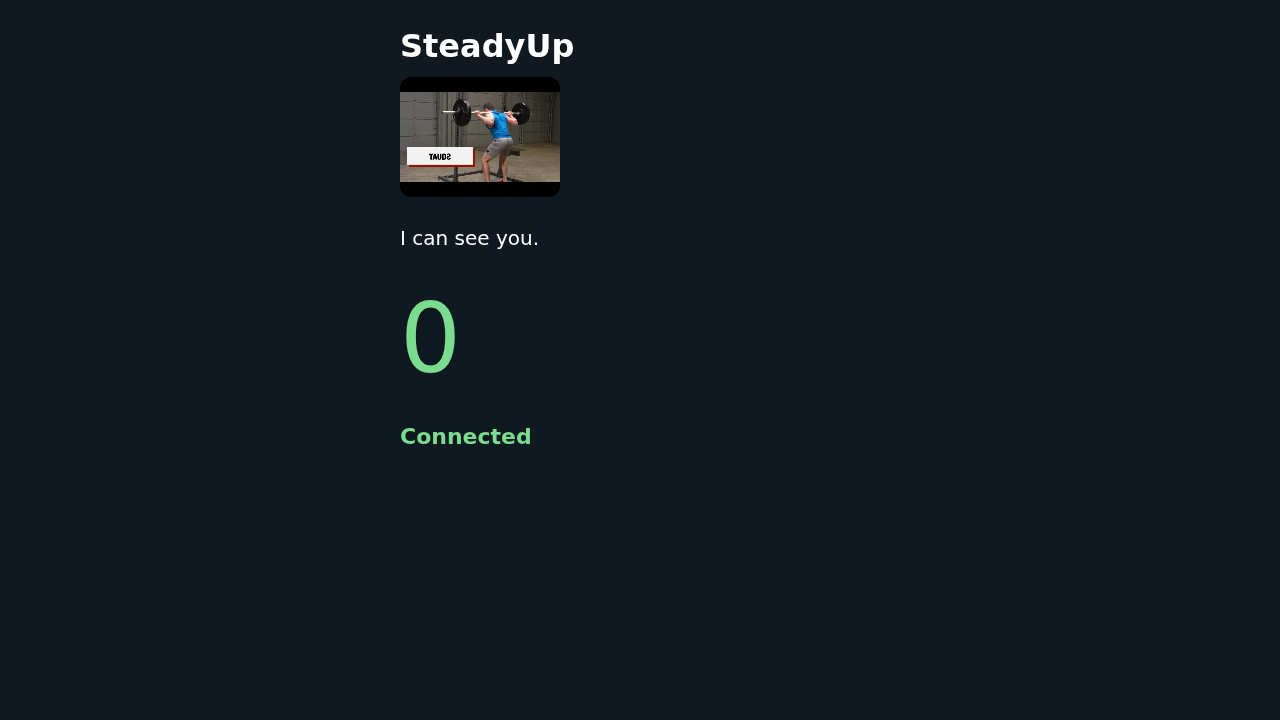
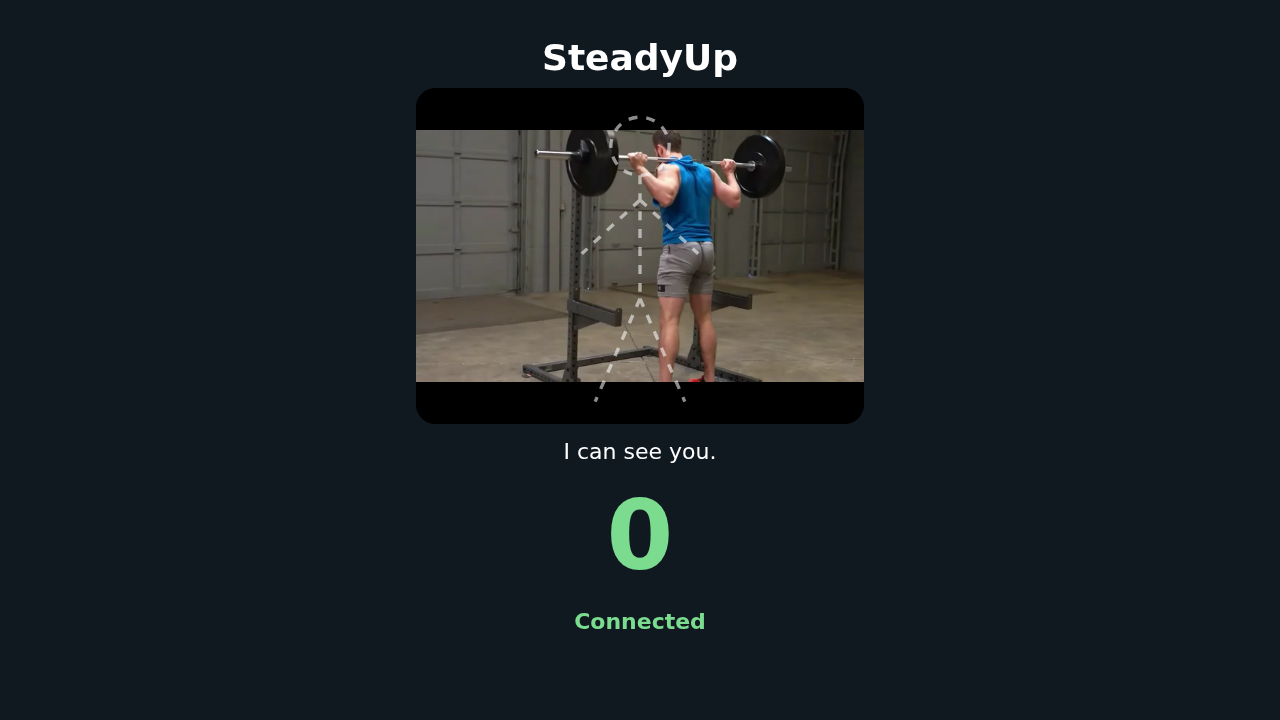
worldclass: docs, audit status, demo, readme

Changed region(s): [[0.3125, 0.0306, 0.6875, 0.6417], [0.4688, 0.6722, 0.5312, 0.7944], [0.4375, 0.8556, 0.5625, 0.8861]]

diff --git a/tests/e2e/s9-worldclass.spec.ts b/tests/e2e/s9-worldclass.spec.ts
@@ -71,3 +71,41 @@ test("S9 chair stand: 'No' skips the test with a kind sentence", async () => {
     pressOk(); await expect.poll(() => logcat("SteadyUpFlow").split("shown=home").length, { timeout: 10_000 }).toBeGreaterThan(2);
   } finally { phone.close(); }
 });
+
+test("S9 the real phone page answers a calibration request (fake camera, scripted TV)", async ({ browser }) => {
+  test.setTimeout(2 * 60_000);
+  const { default: WebSocket } = await import("ws");
+  const tv = new WebSocket(endpoints.wsUrl);
+  const got: any[] = [];
+  const code: string = await new Promise((resolve, reject) => {
+    tv.on("open", () => tv.send(JSON.stringify({ type: "hello", role: "tv" })));
+    tv.on("message", (m) => { const j = JSON.parse(m.toString()); got.push(j); if (j.type === "code") resolve(j.code); });
+    tv.on("error", reject);
+  });
+  const page = await newPhone(browser);
+  await page.goto(`${endpoints.webUrl}/?code=${code}&delegate=cpu&calms=9000`);
+  await expect(page.locator("#status")).toHaveText("Connected", { timeout: 20_000 });
+  await expect(page.locator("#seen")).toHaveText("I can see you.", { timeout: 60_000 });
+  tv.send(JSON.stringify({ type: "calibrate" }));
+  await expect.poll(() => got.filter((m) => m.type === "cal").length, { timeout: 30_000 }).toBeGreaterThan(0);
+  await expect.poll(() => got.some((m) => m.type === "cal" && (m.state === "done" || m.state === "unclear")), { timeout: 30_000 }).toBe(true);
+  const final = got.filter((m) => m.type === "cal").at(-1);
+  expect(["done", "unclear", "progress"]).toContain(final.state); // a squat video may or may not be two clear stands: either answer is fine, silence is not
+  await expect(page.locator("#note")).toContainText("Stand up slowly");
+  tv.close();
+});
+
+test("S9 record the key screens: 2x2 home grid, a live set part-way through, the finish", async () => {
+  test.setTimeout(3 * 60_000);
+  const code = await tvCode(["--es", "plan", "sit_to_stand:8", "--ei", "restSec", "1"]);
+  const phone = new ScriptedPhone(endpoints.wsUrl);
+  phone.kneesCaveFirstSet = true;
+  try {
+    await phone.join(code);
+    await waitScreen("safety"); pressOk();
+    await waitScreen("home"); tvScreenshot("s9-home-grid"); pressOk();
+    await waitScreen("intro:0"); pressOk();
+    await waitScreen("live:0"); await sleep(8500); tvScreenshot("s9-live-midset");
+    await waitScreen("finish", 90_000); await sleep(800); tvScreenshot("s9-finish");
+  } finally { phone.close(); }
+});

diff --git a/web/src/main.ts b/web/src/main.ts
@@ -31,8 +31,8 @@ async function join(code: string) {
       if (e.kind === "connected") { $("join").classList.add("hidden"); say("Connected", "ok"); void beginCamera(); }
       else if (e.kind === "problem") say(e.message, "bad");
       else if (e.kind === "message" && e.data.type === "ack") live?.onAck(e.data.t);
-      else if (e.kind === "message" && e.data.type === "calibrate") { $("seen").textContent = "Stand up slowly, then sit down. Do it twice."; live?.startCalibration(); }
-      else if (e.kind === "message" && e.data.type === "move") { if (e.data.seq !== undefined && e.data.seq === lastSeq) return; lastSeq = e.data.seq; $("count").textContent = "0"; const bad = live?.setMove(e.data.move, e.data.side); if (bad) $("seen").textContent = bad; }
+      else if (e.kind === "message" && e.data.type === "calibrate") { $("note").textContent = "Stand up slowly, then sit down. Do it twice."; live?.startCalibration(); }
+      else if (e.kind === "message" && e.data.type === "move") { if (e.data.seq !== undefined && e.data.seq === lastSeq) return; lastSeq = e.data.seq; $("note").textContent = ""; $("count").textContent = "0"; const bad = live?.setMove(e.data.move, e.data.side); if (bad) $("seen").textContent = bad; }
       else if (e.kind === "message" && e.data.type === "state" && e.data.state === "set-end") live?.endSet();
     });
   } catch {

diff --git a/web/src/live.ts b/web/src/live.ts
@@ -38,7 +38,7 @@ export async function startLive(
   let bands: StandBands | undefined;                 // this person's own seated/standing levels, after calibration
   let calibrator: ReturnType<typeof createCalibrator> | null = null;
   let calStart = 0, calReported = -1;
-  const CAL_TIMEOUT_MS = 45_000;
+  const CAL_TIMEOUT_MS = Number(new URLSearchParams(location.search).get("calms")) || 45_000; // ?calms= shortens it for tests
   let moveLabel = ""; // kept for debugging in the console
   // Counts are cumulative, so re-sending the latest one every second is harmless and heals any dropped message.
   let lastCount: { move: string; count: number } | null = null;

diff --git a/tests/phone.ts b/tests/phone.ts
@@ -8,7 +8,8 @@ export async function newPhone(browser: Browser): Promise<Page> {
   const ctx = await browser.newContext();
   open.push(ctx);
   const page = await ctx.newPage();
-  page.on("console", (m) => { if (m.type() === "error") errors.push(`console: ${m.text()}`); });
+  // MediaPipe writes an INFO line ("Created TensorFlow Lite XNNPACK delegate") to the error stream: not a problem
+  page.on("console", (m) => { if (m.type() === "error" && !m.text().startsWith("INFO:")) errors.push(`console: ${m.text()}`); });
   page.on("pageerror", (e) => errors.push(`pageerror: ${e.message}`));
   return page;
 }

diff --git a/web/index.html b/web/index.html
@@ -46,6 +46,7 @@
       <svg viewBox="0 0 400 300" aria-hidden="true" focusable="false"><g fill="none" stroke="#fff" stroke-width="3" stroke-dasharray="8 8"><circle cx="200" cy="52" r="26"/><path d="M200 78v110M200 100l-52 48M200 100l52 48M200 188l-40 92M200 188l40 92"/></g></svg>
     </div>
     <p id="seen">Looking for you…</p>
+    <p id="note" class="tip" role="status"></p>
     <p id="count" aria-label="Count">0</p>
   </section>
   <p id="status" role="status">Ready.</p>

diff --git a/README.md b/README.md
@@ -1,12 +1,14 @@
 # SteadyUp
 
-**SteadyUp turns any Fire TV into a balance and strength coach for older adults.** The phone people already own is the camera, the TV is the coach, and the family sees the progress.
+**1 in 4 adults over 65 fall every year, and balance and strength exercise is linked to about a quarter fewer falls, but a coach costs thousands.**
+SteadyUp turns the Fire TV you already own into that coach: your phone is the camera, the TV coaches, and your family sees the progress.
+It also runs the CDC's 30-second chair stand check, so you have a number to share with your doctor. Video never leaves your phone.
 
-Entry for the Amazon Developer Hackathon, Fire TV track. Categories it touches: fitness, computer vision, multi-modal UX, family entertainment.
+Entry for the Amazon Developer Hackathon, Fire TV track (fitness, computer vision, multi-modal UX, family entertainment).
 
-> SteadyUp offers balance and strength exercises, the kind studies link to fewer falls. It is not medical advice and makes no health claims of its own. Check with your doctor before starting new exercise. Always use a sturdy chair.
+> SteadyUp offers balance and strength exercises, the kind studies link to fewer falls. It is not medical advice and makes no health claims of its own. It never says what a score means for you. Check with your doctor before starting new exercise. Always use a sturdy chair.
 
-## Why
+## The problem, with sources
 
 | Fact | Source |
 | --- | --- |
@@ -16,7 +18,26 @@ Entry for the Amazon Developer Hackathon, Fire TV track. Categories it touches: 
 | Smart-gym form feedback costs thousands: Tonal 2 is $4,295 + $59.95/month | [Garage Gym Reviews](https://www.garagegymreviews.com/tonal-review) |
 | Peloton's $295 TV camera for strength (Guide) stopped selling on July 30, 2025; Amazon shut down Halo in 2023 | [MacMyths](https://macmyths.com/peloton-guide-review-2026-is-the-discontinued-strength-camera-worth-buying/), [FOX 10](https://www.fox10phoenix.com/news/amazon-axes-halo-fitness-program-how-to-get-a-refund) |
 
-The hardware was the barrier. A phone people already own costs $0. Video never leaves the phone.
+The hardware was the barrier. A phone people already own costs $0.
+
+## Why Fire TV
+
+- **It is already in the living room, and it is cheap.** The people who need this most do not buy a $4,295 smart gym. They have a TV and a remote.
+- **Remote-only.** Mom never types. Arrows, OK and Back do everything; the first button on every screen has focus, with a thick focus ring; Back always goes somewhere sensible.
+- **Built for Fire OS, not just Android TV.** Leanback launcher entry with a 320x180 banner, no touchscreen needed, `minSdk 28` (Fire OS 7) and API 30 tested (Fire OS 8), and **no Google Play services, Firebase or ML Kit anywhere** (`npm run verify` scans the dependency tree). Pose tracking runs on the phone because Fire devices have no Play services.
+- **Big text, big spaces.** TV text is at least 40 sp, sentences are under 12 words, and there are no tech words on any screen (tests scan for them).
+- **No voice on the device? Still fine.** If the TV has no speech engine, form cues are shown larger on screen instead.
+
+## The CDC 30-second chair stand check
+
+From Home, "Chair stand check" runs the CDC STEADI 30-Second Chair Stand test with CDC's instructions: sit in the middle of a chair without arms, feet flat, **arms crossed on the chest**, stand all the way up then sit down, as many as you can in 30 seconds.
+
+1. First question: "Can you stand up from a chair without using your hands?" If not, we skip the test.
+2. Optional age band and sex.
+3. A 3-2-1 countdown, 30 seconds with a live count, then the score next to the CDC number: *"CDC lists under 10 as below average for your age. Share this number with your doctor."* (The number comes from CDC's table for the age band and sex you chose; skip them and we say CDC has numbers by age and sex.)
+4. The score is saved; the family page shows the trend.
+
+We never diagnose and never say what a score means for you. Sources: [CDC STEADI](https://www.cdc.gov/steadi/) and its "30-Second Chair Stand" assessment form (find it on the STEADI page). The below-average table in `android/app/src/main/java/com/steadyup/tv/Cdc.kt` is CDC's: men/women under 14/12 (60-64), 12/11 (65-69), 12/10 (70-74), 11/10 (75-79), 10/9 (80-84), 8/8 (85-89), 7/4 (90-94).
 
 ## How it works
 
@@ -24,12 +45,13 @@ The hardware was the barrier. A phone people already own costs $0. Video never l
 Phone or laptop browser (web/)          AWS us-east-1 (server/)               Fire TV app (android/)
  camera -> MediaPipe Pose (on device) -> API Gateway WebSocket + Lambda   ->  stick figure, reps, cues, voice
  rep + form engine (TypeScript)         DynamoDB (codes, history, plan)       session flow, safety screens
- sends body points + counts only        HTTP API + S3/CloudFront (pages)      pairing QR + number
- never video                            Bedrock Claude Haiku (weekly plan only)
+ learns YOUR standing/sitting levels    HTTP API + S3/CloudFront (pages)      pairing QR + number, family QR
+ sends body points + counts only        Bedrock Claude Haiku (weekly plan)
+ never video
 ```
 
-- **Mom (72)** uses only the remote: arrows, OK, Back. She scans a QR with her phone, leans it on a shelf, and follows the stick figure.
-- **Ana (her daughter)** opens a family link (a QR on the TV), sees the week and the streak, and can **move together** from her own phone and camera.
+- **Mom (72)** uses only the remote. She scans a QR with her phone, leans it on a shelf, does two slow stands so SteadyUp learns how *she* moves (any height, any distance from the camera), and follows the stick figure.
+- **Ana (her daughter)** opens a family link (a QR on the TV), sees the week, the streak and the chair stand trend, and can **move together** from her own phone and camera.
 - **Judges** can try it with a laptop webcam and no phone: open the phone page on the laptop and type the number the TV shows.
 
 ### The five chair-supported moves
@@ -39,21 +61,39 @@ Sit to stand, heel raises (hands on chair), side leg raise (each side), marching
 - First run: "Check with your doctor before starting new exercise. Always use a sturdy chair."
 - Before every set: "Hold the back of the chair."
 - If the person is out of view for 10 seconds the set pauses: "Paused. Press OK when you're ready."
-- **Video never leaves the phone.** Only body points and counts are sent. History stores counts only. The history API rejects any extra field (a test reads the table to prove it).
-- AI is used once a week, after a session, to suggest next targets. It never runs in the live loop. Code limits every change to +-2 reps (+-5 seconds for the hold) and never above 15 reps or 30 seconds.
+- **Video never leaves the phone.** Only body points and counts are sent. History stores counts only; the history API rejects any extra field (a test reads the table to prove it).
+- AI is used once a week, after a session, to suggest next targets. It never runs in the live loop. Code limits every change to +-2 reps (+-5 seconds for the hold), never above 15 reps or 30 seconds, and one refresh per week.
+- Pairing and family numbers allow 5 wrong tries a minute per address, then a one-minute wait.
+
+## Where the code is
+
+| What | Where |
+| --- | --- |
+| Rep and form engine (pure TypeScript) | `web/src/engine/` (`sitToStand.ts`, `heelRaise.ts`, `sideLegRaise.ts`, `march.ts`, `tandemHold.ts`, `chairStand.ts`, thresholds in `thresholds.ts`) |
+| Personal calibration (two slow stands) | `web/src/engine/calibration.ts` |
+| Phone camera, pose, send loop | `web/src/live.ts`, `web/src/pose.ts`, `web/src/main.ts` |
+| Family page and "move together" page | `web/family.html`, `web/together.html`, `web/src/family.ts`, `web/src/together.ts` |
+| TV session as a state machine | `android/app/src/main/java/com/steadyup/tv/SessionMachine.kt` |
+| TV screens | `.../Screens.kt`, `.../MainActivity.kt` |
+| CDC chair stand table and wording | `.../Cdc.kt` |
+| Relay: pairing, rooms, rate limits | `server/src/pairing.ts`, `server/src/handler.ts` |
+| History, family summary, chair trend | `server/src/api.ts`, `server/src/summary.ts` |
+| AI weekly plan and its caps | `server/src/plan.ts` |
+| Infrastructure (CDK) | `server/infra/stack.ts` |
+| Tests | `web/src/**/*.test.ts`, `server/src/*.test.ts`, `android/app/src/test/`, `tests/e2e/`, `tests/unit/` |
+| Proof of every slice, decisions, tuned numbers | `docs/PROGRESS.md`, `docs/screens/` |
+| What a judge would criticise (and what we fixed) | `docs/AUDIT.md` |
 
 ## Try it
 
-You can drive the whole thing from this repo.
-
 ### Prerequisites
-Node 22, JDK 17, the Android SDK (platform 35, build-tools 35.0.0), Docker is not needed. For the TV: an Android TV emulator, API 30 (Android 11, the same as Fire OS 8). For your own cloud copy: an AWS account with CDK bootstrapped in us-east-1.
+Node 22, JDK 17, the Android SDK (platform 35, build-tools 35.0.0). For the TV: an Android TV emulator, API 30 (Android 11, the same as Fire OS 8). For your own cloud copy: an AWS account with CDK bootstrapped in us-east-1.
 
 ### From a clean clone
 ```bash
 git clone <this repo> && cd steadyup
 npm ci
-npm test                      # unit tests: rep engine, server, TV logic helpers (no network)
+npm test                         # unit tests: rep engine, calibration, server, TV logic helpers (no network)
 node scripts/make-fixtures.mjs   # downloads the fake-camera video used by the browser tests
 ```
 
@@ -62,29 +102,24 @@ FAQ: "an emulator (Android TV Emulator or the Fire TV/Vega simulator) is fine." 
 1. Android Studio -> Device Manager -> Create device -> TV -> Television (1080p) -> system image API 30 -> start it.
 2. `source scripts/env.sh` (edit the `ADB` path to your adb), then `npm run apk` builds and installs the app and launches it.
 3. The TV shows a QR and a 6-number code. On a laptop or phone open the address printed under the code, type the number, and allow the camera.
-4. Press OK on the remote (or Enter on the emulator keyboard) through the safety screen and Home, then "Start today's 10 minutes".
+4. Press OK on the remote (or Enter on the emulator keyboard) through the safety screen and Home. "Start today's 10 minutes" begins with two slow stands, then the first move.
 
 ### Your own cloud copy
-`npm run deploy` builds the pages, deploys the CDK stack (pay-per-request only: no always-on servers) and writes the URLs to `config/endpoints.json`, which the tests and the Android build read. The committed file points at the demo stack.
+`npm run deploy` builds the pages, deploys the CDK stack (pay-per-request only: no always-on servers) and writes the URLs to `config/endpoints.json`, which the tests and the Android build read. `STAGE=name npm run deploy` makes a separate copy (`SteadyUp-name`) that never touches the main one.
 
 ### Everything at once
-`npm run verify` runs typecheck, unit tests, the end-to-end tests (Playwright with a fake camera, plus the emulator), Gradle tests, and a live Bedrock smoke call, then prints PASS or FAIL for each build slice. See `docs/PROGRESS.md` for the proof of each slice, the decisions, and the tuned thresholds.
+`npm run verify` runs typecheck, unit tests, the end-to-end tests (Playwright with a fake camera, plus the emulator), Gradle tests, a live Bedrock call, a Google Play services scan and a Lighthouse accessibility check, then prints PASS or FAIL for each build slice.
 
-## Repo map
-- `android/` Kotlin, Jetpack Compose for TV, OkHttp WebSocket, Android TextToSpeech, ZXing core. No Google Play services or Firebase.
-- `web/` Vite + TypeScript. `web/src/engine/` is the pure rep and form engine.
-- `server/` TypeScript, AWS CDK v2, API Gateway WebSocket + HTTP API, Lambda (Node 22), DynamoDB on-demand, S3 + CloudFront, Bedrock for the weekly plan.
-- `tests/` Playwright end-to-end tests and the scripted phone used for TV flow tests.
-- `docs/` spec, slices, progress, demo script, fixtures, friction log inputs, screenshots.
+## Honest limits and next steps
 
-## Honest limits
-- Tested on the Android TV emulator, not on a physical Fire TV device. Fire OS 8 is Android 11 (API 30); the app targets that.
-- The rep engine thresholds were tuned on synthetic landmark streams and one real exercise video (a back-view squat). A real person doing sit to stand should be checked before relying on the counts.
-- The emulator has no speech voice, so spoken cues are verified by logs and tests, not by ear.
-- See `docs/MORNING-REPORT.md` for the full list.
+- **Not yet tried by an older adult.** Counting was tuned on synthetic bodies (3 builds x 3 distances, all count 10 of 10) and one real exercise video. Calibration makes it adapt to the person, but a real front-view trial is the next step.
+- Tested on the Android TV emulator, not on a physical Fire TV. Fire OS 8 is Android 11 (API 30); the app targets that. The emulator has no voice, so spoken cues are verified by logs and tests, not by ear.
+- The demo history on the family page is seeded with `scripts/seed-demo-history.mjs`; real use starts empty.
+- One guest per "move together" room; a second real TV joining a room is not built.
+- **Next:** try it with 2 or 3 people over 65 and add their words; list on the Amazon Appstore; a free-for-family model so the person exercising never pays and families can add a coach later.
 
 ## Sources
-The five statistics above are the only facts cited. Video for tests: Wikimedia Commons, CC BY 3.0 (see `docs/FIXTURES.md`).
+The five statistics above and the CDC STEADI chair stand table are the only facts cited. Video for tests: Wikimedia Commons, CC BY 3.0 (see `docs/FIXTURES.md`).
 
 ## License
 MIT. See `LICENSE`.

diff --git a/docs/DEMO.md b/docs/DEMO.md
@@ -1,46 +1,52 @@
 # Demo script (2:45) with exact clicks
 
-Record the Android TV emulator window plus a phone (or laptop) screen. Two takes at most.
+Record the Android TV emulator window plus a phone (or laptop) screen. Two takes at most. Total 2:45.
 
 ## Before you press record
 1. Start the emulator (Television 1080p, API 30) and leave it running.
 2. In WSL: `cd ~/steadyup && source scripts/env.sh && npm run apk` (installs and launches the app).
 3. Reset to a first run so the safety screen shows: `"$ADB" shell pm clear com.steadyup.tv`, then `"$ADB" shell am start -n com.steadyup.tv/.MainActivity`.
-4. On a phone: open the address shown under the QR later. Prop the phone against a shelf or a book, facing a sturdy chair, 2 m away, with your whole body in view.
-5. Put a sturdy chair in frame. Mute notifications.
-5b. Needed for the "4 sessions this week, up from 2" line (otherwise the page shows today's session only): open the app once, then `node scripts/seed-demo-history.mjs` (prints the family link).
-6. Remote keys on the emulator: arrow keys = arrows, Enter = OK, Esc = Back.
+4. On a phone: open the address shown under the QR. Prop the phone against a shelf or a book, facing a sturdy chair, 2 m away, with your whole body in view. A chair **without arms**, against a wall, for the chair stand check.
+5. History for the family page (disclose it in the video description: "sample history for the demo"): open the app once, then `node scripts/seed-demo-history.mjs`. It prints the family link. Without it the page shows today only.
+6. Remote keys on the emulator: arrow keys = arrows, Enter = OK, Esc = Back. The Home screen is a 2 x 2 grid: **Start** (top left), **Move together** (top right), **This week** (bottom left), **Chair stand check** (bottom right).
 
 ## Shots
 
-**0:00 - The problem (screen text, voice-over).** Show a slide or the README table. Say: "1 in 4 adults over 65 fall every year. Studies link balance exercise to about a quarter fewer falls. But a coach costs thousands." Put the CDC and Cochrane lines on screen.
+**0:00 - The problem (15 s, slide or README table, voice-over).** "1 in 4 adults over 65 fall every year. Studies link balance exercise to about a quarter fewer falls. But a coach costs thousands. SteadyUp is that coach on the Fire TV you already own." Put the CDC and Cochrane lines on screen.
 
-**0:20 - Mom opens SteadyUp on Fire TV and pairs.**
-1. TV shows the QR and the 6-number code. Hold the phone up so the camera shows the QR on the screen (or type the number on the phone page).
-2. Phone says "Connected". TV says "Connected" for a moment.
-3. TV shows the safety screen. Press **OK** on "I understand".
-4. Lean the phone on the shelf.
+**0:15 - Mom pairs (20 s).**
+1. TV shows the QR and the 6-number code. Hold the phone up so the camera reads the QR (or type the number on the phone page).
+2. Phone says "Connected". TV says "Connected" for a moment, then the safety screen. Press **OK** on "I understand". Lean the phone on the shelf.
 
-**0:40 - Stick figure copies her; sit to stand.**
-1. Home screen: press **OK** on "Start today's 10 minutes".
-2. Move intro: "Sit to stand. Hold the back of the chair." Press **OK** on "I'm ready".
-3. Stand and sit with a hand on the chair. The stick figure copies you; the big number counts reps.
-4. Around rep 4 let your knees drift inward once. The TV shows and says "Keep knees over toes."
+**0:35 - It learns how she moves (20 s).**
+1. Home: press **OK** on "Start today's 10 minutes".
+2. TV: "Let's learn how you move. Stand up slowly, then sit down. Do it two times." Do two slow stands with a hand on the chair. The stick figure copies you; the counter goes 1 of 2, 2 of 2. Say: "It sets its own levels for this person, any height, any distance."
 
-**1:20 - Finish and the family page.**
-1. Let the set finish (or skip rests with **OK**) until the finish screen: totals and "See you tomorrow."
-2. On Ana's phone open the family link (scan the QR on the TV's "This week" screen: Home, arrow down twice, **OK**).
-3. Ana's page shows "4 sessions this week. Up from 2.", the streak, and "Last time". After a week of use the plan card reads, for example, "You did 8 every day. Let's try 10."
+**0:55 - Sit to stand with a form cue (25 s).**
+1. Intro: "Sit to stand. Hold the back of the chair." Press **OK** on "I'm ready".
+2. Do reps; the big number counts and the fill bar grows. Around rep 4 let your knees drift in once: the banner turns to "Keep knees over toes".
+3. Press **Esc** (Back) to stop early: the real reps done are saved.
 
-**1:50 - Move together.**
-1. TV Home: arrow down once to "Move together", press **OK**. The TV shows a number and a QR.
-2. Ana scans the QR on the TV with her phone, types her name, and joins (or opens the address from the family page and types the number). TV says "Ana is here."
-3. Press **OK** on "Start together", then through the intro. The TV shows both stick figures labelled "You" and "Ana", separate counts, and "Together: 18".
+**1:20 - The chair stand check: the impact moment (30 s).**
+1. TV Home: arrow **down**, arrow **right** to "Chair stand check", **OK**.
+2. "Can you stand up from a chair without using your hands?" Press **OK** on "Yes".
+3. Age and sex are optional: press **OK** on Age twice (65 to 69), arrow down, **OK** on Sex once (Woman), arrow down, **OK** on "Next".
+4. Read the instructions aloud in one breath, **OK** on "I'm ready". 3-2-1, then do as many stands as you can for 30 seconds, arms crossed on the chest.
+5. The result: your score big, and "CDC lists under 11 as below average for your age. Share this number with your doctor." Say: "A number your doctor can use, from the CDC's own test. No diagnosis, no guesses."
 
-**2:20 - Privacy and close.**
-Say: "Video never leaves your phone. Only body points and counts are sent." Show the README "Safety and privacy" section. Close: "Built for Fire OS, runs on the Fire TV you already own."
+**1:50 - Family sees it (25 s).**
+1. TV Home: arrow **down** (This week), **OK**. The TV shows the week and a QR for the family link.
+2. On Ana's phone open the family link: "4 sessions this week, up from 2", the streak, "Last time", the plan card ("You did 8 every day. Let's try 10."), and the **chair stand trend**.
+
+**2:15 - Move together (15 s).**
+1. TV Home: arrow **right** (Move together), **OK**. The TV shows a number and a QR.
+2. Ana scans it with her phone, types her name, joins. TV: "Ana is here." **OK** on "Start together", through the intro. Both stick figures, "You" and "Ana", separate counts, "Together: N".
+
+**2:30 - Close (15 s).** "Video never leaves your phone. Only body points and counts are sent. Built for Fire OS: remote-only, big text, no Google Play services. SteadyUp: balance and strength, at home, with family."
 
 ## If something goes wrong on camera
 - No camera picture on the phone page: reload, allow the camera, stand 2 m back so the whole body shows.
+- "Let's try once more" during the two slow stands: do them slower, hold at the top and bottom for a second. After three tries it carries on with the standard levels.
 - TV stuck on a number: wait 4 seconds, it fetches a new one by itself.
-- Spoken cues are silent on the emulator: it has no voice engine. Cues show on screen. A real Fire TV speaks them.
+- Spoken cues are silent on the emulator: it has no voice engine. Cues show larger on screen. A real Fire TV speaks them.
+- Too many wrong numbers: wait one minute.

diff --git a/docs/PROGRESS.md b/docs/PROGRESS.md
@@ -13,6 +13,19 @@
 | S8 Move together | done | e2e s8-together: (1) two scripted people through real engines: both labelled figures, separate reps, TV log together=6 for 3+3 (docs/screens/s8-tv-room.png, s8-tv-two-figures.png); (2) two fake-camera browser pages (Mom paired to the TV, Ana joined from her own phone page): TV shows both figures and a Together total (s8-tv-two-cameras.png). Server unit: rooms, tagging, broadcast, refusals. | S8 |
 | S9 Submission pack | done | `bash scripts/clean-clone-check.sh`: fresh clone -> npm ci, npm test, APK built, Gradle tests pass; gitleaks: no leaks (12 commits); npm audit: 0 vulnerabilities; README, LICENSE (MIT), FEEDBACK.md, FRICTION_LOG.md, docs/DEMO.md, docs/MORNING-REPORT.md written | S9 |
 
+## World-class pass (branch worldclass, stage wc) — started 00:25 ET Fri
+
+| Item | Status | Proof |
+| --- | --- | --- |
+| Protect: tag submission-v1, branch worldclass, separate CDK stage `wc` | done | tag `submission-v1` pushed; stack `SteadyUp-wc` (`STAGE=wc npm run deploy`); main stack untouched until the end step. `config/endpoints.main.json` keeps the main URLs |
+| 1 Fresh-eyes audit | done | docs/AUDIT.md (fresh subagent, 10 ranked weaknesses) plus a status table of fixes |
+| 2 Personal calibration | done | web/src/engine/calibration.ts + s2b-calibration.test.ts: 3 builds x 3 distances, each calibrates from 2 slow reps then counts 10/10; unclear -> retry -> defaults; TV Calibrate screen; e2e s9-worldclass (unclear try repeats, then counts) and real phone page answers `calibrate` |
+| 3 CDC chair stand | done | engine chairStand.ts, TV flow (question, optional age/sex, instructions, 3-2-1, 30 s, result with CDC number), score saved, family trend; Kotlin S9WorldClassTest (table, exact wording, no diagnosis words); e2e screenshots docs/screens/s9-chair-*.png |
+| 4 Known gaps | done | rate limit (5 wrong/min/address, 1 min wait; unit + live e2e), Back saves actual reps, Together counts actual reps, unicode names, rooms close/expire (30 min TTL) |
+| 5 Fire TV readiness | done | tests/unit/s9-fire-tv.test.ts (leanback, banner 320x180, touchscreen not required, only INTERNET), `scripts/check-no-play-services.sh` in verify, focus ring asserted by `waitScreen` on every button screen via uiautomator, Back test over all screens, cues larger with no voice |
+| 6 Quality bar | done | axe (serious/critical none) on phone, together, family, recorder; 390 px no sideways scroll; console errors fail any browser test; tech-word scan of TV strings and phone pages; Lighthouse accessibility 100 on the phone page (`scripts/lighthouse-a11y.sh`); subagent TV screenshot review below |
+| 7 Demo and README | done | docs/DEMO.md (2:45, chair stand as the impact moment), README (3-line hook, sources, Where the code is) |
+
 ## Decisions
 
 - 21:12 ET Goal started (GOAL.txt). Hard stop 7:00 AM ET Fri, then S9.
@@ -55,6 +68,12 @@
 - S8: Together total = my finished reps + my live count + the guest's finished and live reps. Only body points and counts cross the relay; guests' video never leaves their phone. A second real TV joining a room is not built (the spec allowed one emulator with a split view).
 - S9: spoken cues cannot be heard on the Android TV emulator (no speech engine, `engine ready=false`); verified by logs and unit tests and disclosed in README and the morning report.
 - S9: rejected review nits left open on purpose (logged in the morning report): no attempt limit on pairing numbers, one guest per room, Back mid-set not saved, ASCII-only guest names.
+- WC: calibration bands = seated + 28% / 62% of the person's own seated-to-standing range (gap = hysteresis); needs 2 clear cycles and a range of at least 0.35 torso lengths; 3 unclear tries then defaults. The TV never blocks on it (Skip with OK).
+- WC: chair stand counts each FULL STAND (CDC: count a stand when fully up); one reminder 'Cross your arms on your chest' if the wrists hang. CDC compare line needs both age band and sex; otherwise a generic CDC line. Never a verdict.
+- WC: chair stand scores are stored as sets with move chair_stand_30 (target 30, done = stands) and kept out of sessions, streaks and totals.
+- WC: wrong-number limiter is per source address (API Gateway sourceIp), stored in DynamoDB with TTL; only wrong tries count.
+- WC: Home is a 2x2 grid (all four buttons fit at 1080p). Arrow keys: Start | Move together over This week | Chair stand check.
+- WC: MediaPipe's INFO line on the console error stream is ignored by the console-error check (not an app error).
 - `npm run dev` is vite only for now; local server stand-in comes with S1 if needed.
 
 ## Tuned thresholds

diff --git a/docs/AUDIT.md b/docs/AUDIT.md
@@ -62,3 +62,18 @@
 - **What a judge sees:** README opens with CDC and Cochrane numbers. There is no quote from an older adult, no test with anyone, no pricing or distribution plan, and no mention of what happens after the hackathon. The disclaimer repeats that it is not medical.
 - **Why it costs points:** Impact is scored equally. The stats show the problem is large, but not that SteadyUp solves it. The "Honest limits" section, while honest, lists what is not done and ends with "See MORNING-REPORT" as if unfinished.
 - **Fix:** Get 2 or 3 people (ideally 65+) to try it for 5 minutes and add one quote and a photo to the README. Add a 3-line "Next" section covering the Appstore listing and a free-for-family model. Replace the internal MORNING-REPORT pointer with a clear known-issues list.
+
+## Status after the world-class pass (what changed, honestly)
+
+| # | Weakness | Status |
+| --- | --- | --- |
+| 1 | No evidence of a real person on a chair | **Not fixed.** Needs a human with a front-facing phone. Do this first (see docs/WAKE-UP.md). Calibration (two slow stands, any height or distance) removes the biggest reason a real person could be miscounted, and the CDC chair stand check gives the demo a real-world number. |
+| 2 | Screenshots show 0 or scripted runs | **Partly fixed.** New `s9-live-midset.png`, `s9-finish.png`, `s9-chair-*.png` show non-zero counts. They are still driven by a scripted phone with synthetic body points; the README says so. |
+| 3 | Clipped third button on Home | **Fixed.** Home is a 2 x 2 grid of four buttons that all fit at 1080p (`s9-home-grid.png`). |
+| 4 | Phone pages look unfinished | **Fixed.** Centred layout, full-width camera preview with a body outline guide, one framing instruction, large buttons, visible focus. Lighthouse accessibility 100; axe finds nothing serious; no sideways scroll at 390 px. |
+| 5 | Live screen too sparse | **Fixed.** "Move N of M" header, the move name, a fill bar, a banner that shows the cue (or what to do), larger figure. Cues are larger when the TV has no voice. |
+| 6 | Demo script and app disagree | **Fixed.** DEMO.md matches the 2 x 2 grid and says the family history is seeded for the demo; the README says so too. |
+| 7 | Spoken coaching never demonstrated | **Partly fixed.** The emulator has no speech engine, so the audio still cannot be shown. With no voice the cue banner is bigger. Record on a real Fire TV to show the voice. |
+| 8 | Thin Fire TV angle, no hardware test | **Partly fixed.** README "Why Fire TV" section, 320x180 launcher banner, remote-only focus on every screen (checked by the e2e tests), no Google Play services anywhere (scanned by `npm run verify`). Still no physical Fire TV. |
+| 9 | Pairing screen shows a raw address | **Not fixed.** The QR is the main path; the address and number are the typed fallback and need a real domain to look friendlier. |
+| 10 | Impact claims lean on stats | **Partly fixed.** README opens with a three-line hook, adds the CDC chair stand check (a real-world number the person can take to a doctor), a "Next" section and an honest limits list. No user quotes yet: that needs real people. |

diff --git a/docs/LATENCY.md b/docs/LATENCY.md
@@ -1,5 +1,5 @@
 # Latency
 
-S2 latency phone->TV one-way estimate (RTT/2) over 190 frames: median 70 ms, p95 109 ms (target median < 200 ms)
+S2 latency phone->TV one-way estimate (RTT/2) over 242 frames: median 64 ms, p95 84 ms (target median < 200 ms)
 
 Method: the TV echoes the phone's timestamp; the phone halves the round trip. Deployed stack (CloudFront + API Gateway WebSocket + Lambda), emulator on the same Windows host as the browser.
